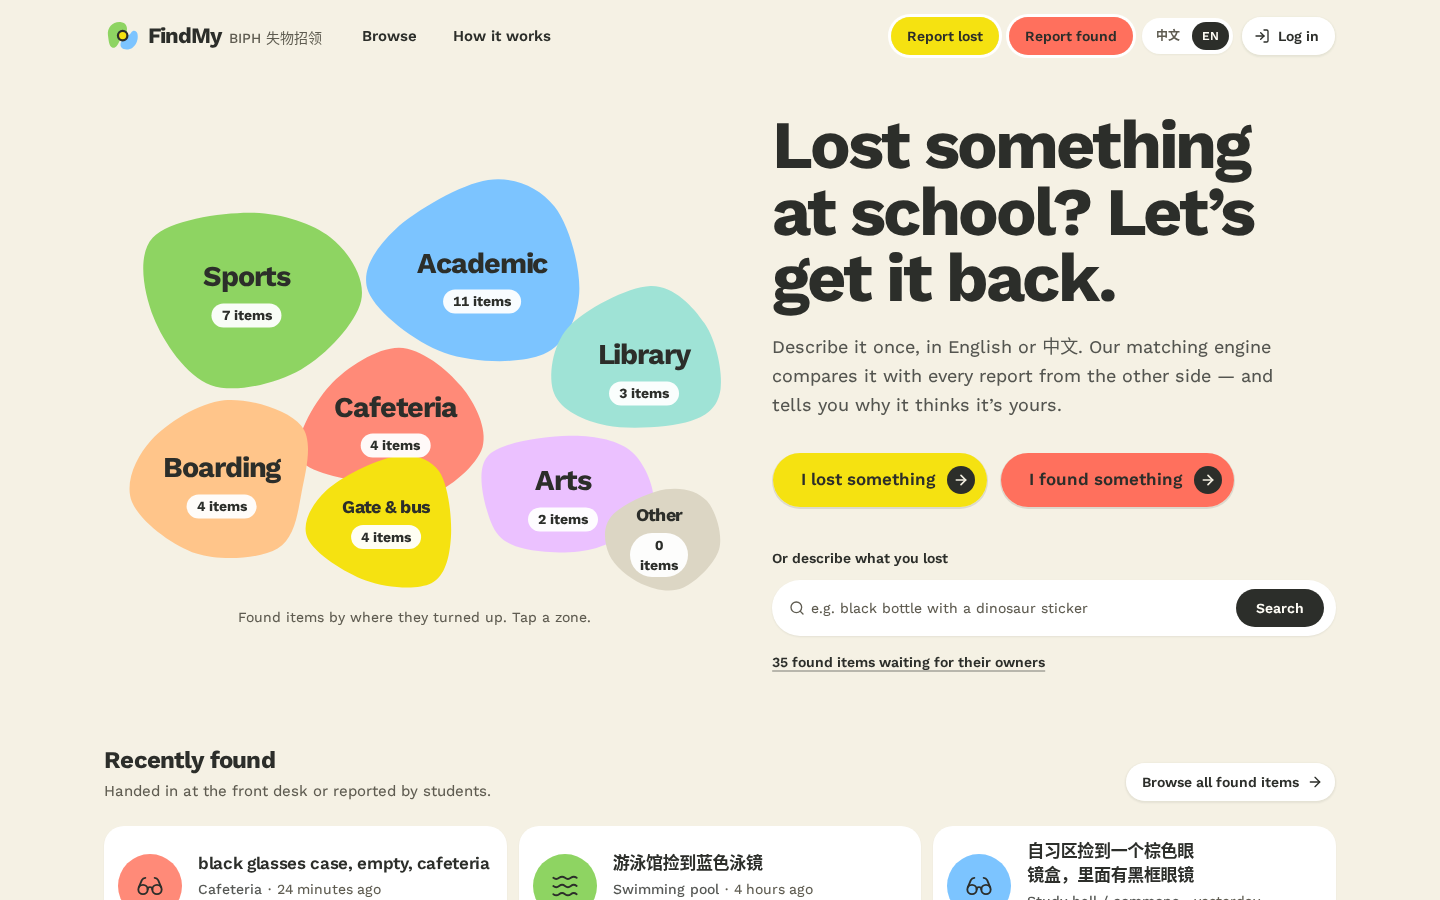
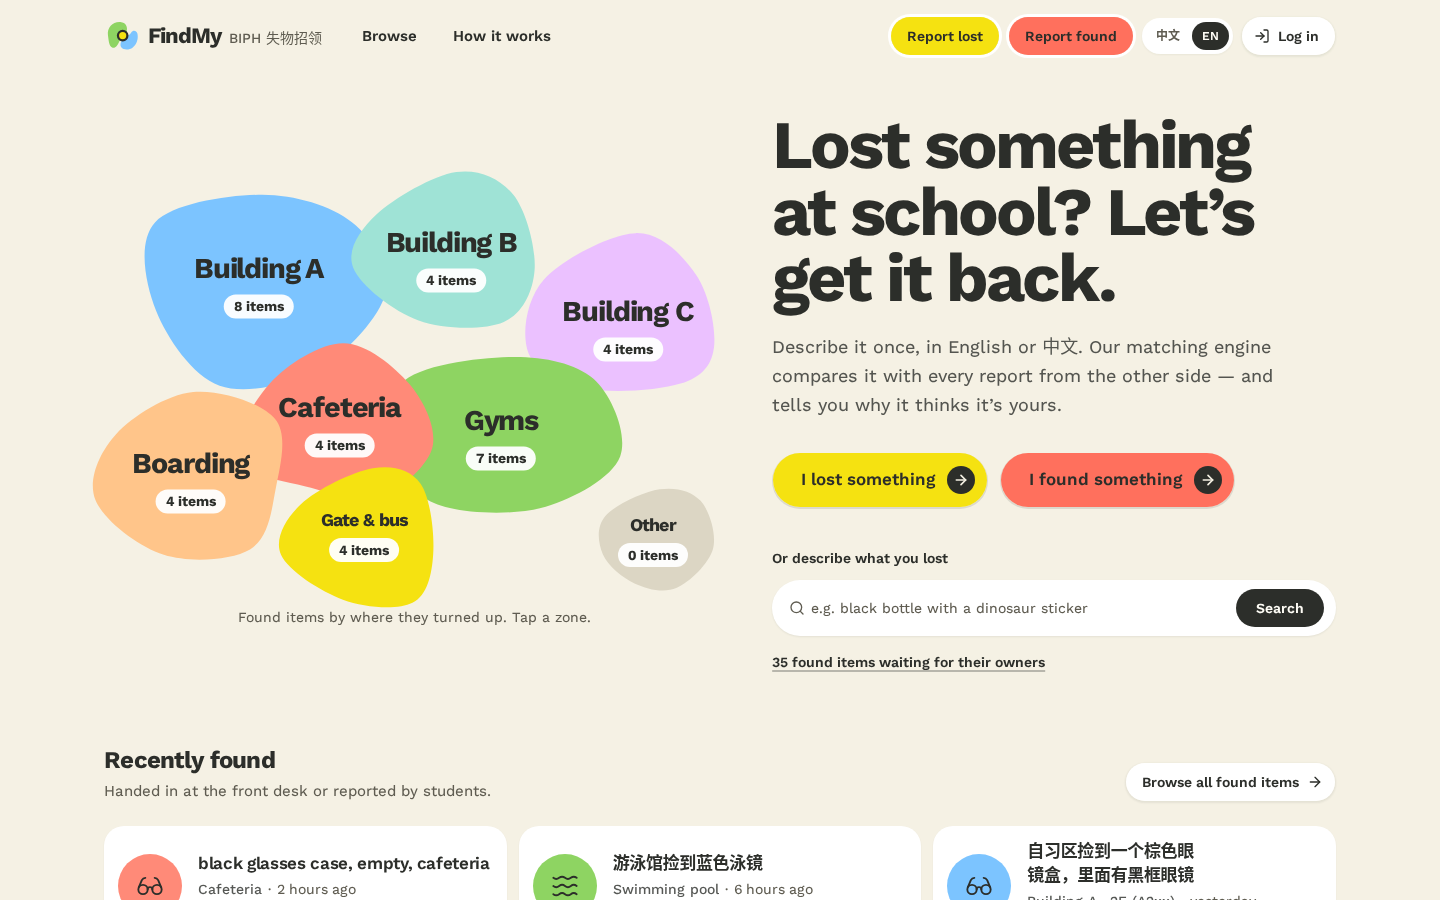
Campus places: buildings A/B/C by floor, Lower/Upper Gym
Restructure locations.yaml into buildings and floors as the club
described: Building A (1F–5F, Library, Theater, Black Box, Clinic),
Building B (1F–4F), Building C (1F–5F), Gyms & sports (Lower Gym,
Upper Gym, pool, field, courts), Cafeteria, Boarding, Gate/bus/front
desk, Other.

- Room numbers and floors in descriptions are detected as places:
  A305, B-210, C栋4楼, a3楼, "building C 4th floor"; they no longer
  count as item codes
- Old draft place ids (gym, classroom, auditorium…) map onto current
  places via a `legacy` table, so seed and synthetic eval data keep
  working; the API canonicalises them on write
- Campus map lobes, zone colours and labels follow the new zones

Claude-Session: https://claude.ai/code/session_01A63aX4exAFyPgu777g8Dwa

Changed region(s): [[0.0625, 0.1867, 0.5, 0.6844], [0.7188, 0.9956, 0.875, 1.0], [0.1875, 0.9644, 0.25, 0.9956]]

diff --git a/frontend/src/components/CampusMap.tsx b/frontend/src/components/CampusMap.tsx
@@ -11,24 +11,24 @@ import { cn } from "@/lib/utils";
 
 type Lobe = { id: string; cx: number; cy: number; r: number; seed: number; label: { x: number; y: number } };
 
-// Rough campus layout in a 1000 × 700 frame: sports fields west, academic block north-east, the gate south.
+// Schematic campus in a 1000 × 700 frame: the three teaching buildings across the top, gyms and canteen in the middle, the gate south.
 const LOBES: Lobe[] = [
-  { id: "sports", cx: 230, cy: 220, r: 150, seed: 3, label: { x: 23, y: 31 } },
-  { id: "academic", cx: 610, cy: 195, r: 150, seed: 7, label: { x: 61, y: 28 } },
-  { id: "library", cx: 870, cy: 340, r: 150, seed: 11, label: { x: 87, y: 49 } },
-  { id: "dining", cx: 470, cy: 430, r: 150, seed: 5, label: { x: 47, y: 61 } },
-  { id: "arts", cx: 740, cy: 545, r: 150, seed: 13, label: { x: 74, y: 78 } },
-  { id: "boarding", cx: 190, cy: 525, r: 150, seed: 2, label: { x: 19, y: 75 } },
-  { id: "entrance", cx: 455, cy: 585, r: 130, seed: 17, label: { x: 45.5, y: 84 } },
-  { id: "other", cx: 895, cy: 615, r: 150, seed: 19, label: { x: 89.5, y: 88 } },
+  { id: "building_a", cx: 250, cy: 205, r: 150, seed: 3, label: { x: 25, y: 29 } },
+  { id: "building_b", cx: 560, cy: 160, r: 150, seed: 7, label: { x: 56, y: 23 } },
+  { id: "building_c", cx: 845, cy: 270, r: 150, seed: 11, label: { x: 84.5, y: 39 } },
+  { id: "sports", cx: 640, cy: 450, r: 150, seed: 13, label: { x: 64, y: 64 } },
+  { id: "dining", cx: 380, cy: 430, r: 150, seed: 5, label: { x: 38, y: 61 } },
+  { id: "boarding", cx: 140, cy: 520, r: 150, seed: 2, label: { x: 14, y: 74 } },
+  { id: "entrance", cx: 420, cy: 610, r: 130, seed: 17, label: { x: 42, y: 87 } },
+  { id: "other", cx: 885, cy: 615, r: 150, seed: 19, label: { x: 88.5, y: 88 } },
 ];
 
 export const ZONE_FILL: Record<string, string> = {
+  building_a: "var(--color-zone-building-a)",
+  building_b: "var(--color-zone-building-b)",
+  building_c: "var(--color-zone-building-c)",
   sports: "var(--color-zone-sports)",
-  academic: "var(--color-zone-academic)",
-  library: "var(--color-zone-library)",
   dining: "var(--color-zone-dining)",
-  arts: "var(--color-zone-arts)",
   boarding: "var(--color-zone-boarding)",
   entrance: "var(--color-zone-entrance)",
   other: "var(--color-zone-other)",
@@ -139,7 +139,7 @@ export function CampusMap({
                 {size === "lg" && n !== undefined && (
                   <span
                     className={cn(
-                      "tabular rounded-full px-2.5 py-0.5 font-bold transition-colors duration-200",
+                      "tabular rounded-full px-2.5 py-0.5 font-bold whitespace-nowrap transition-colors duration-200",
                       size === "lg" ? "text-sm" : "text-xs",
                       on ? "bg-ink text-cream" : "bg-white/95 group-hover:bg-white",
                     )}

diff --git a/frontend/tests/e2e/flows.spec.ts b/frontend/tests/e2e/flows.spec.ts
@@ -23,7 +23,7 @@ test("anonymous visitors can browse found items and search finds the dinosaur th
   const thermos = results.getByRole("link", { name: /green dinosaur sticker/i });
   await expect(thermos).toBeVisible();
   await expect(thermos).toContainText("Water bottle");
-  await expect(thermos).toContainText("Gymnasium");
+  await expect(thermos).toContainText("Lower Gym");
 });
 
 test("a student reports a lost thermos and gets a strong match with reasons", async ({ page }) => {
@@ -41,7 +41,7 @@ test("a student reports a lost thermos and gets a strong match with reasons", as
   await expect(page.getByRole("button", { name: "Black", pressed: true })).toBeVisible();
 
   await page.getByLabel("Area", { exact: true }).selectOption("sports");
-  await page.getByRole("group", { name: "Places in Sports facilities" }).getByRole("button", { name: "Gymnasium" }).click();
+  await page.getByRole("group", { name: "Places in Gyms & sports" }).getByRole("button", { name: "Lower Gym" }).click();
   await page.getByRole("button", { name: "A few days ago" }).click();
   await page.getByRole("button", { name: "Post lost report" }).click();
 
@@ -53,7 +53,7 @@ test("a student reports a lost thermos and gets a strong match with reasons", as
   await expect(best).toContainText(/green dinosaur sticker/);
   const reasons = best.getByRole("list", { name: "Why we think so" });
   await expect(reasons).toContainText("Shared details: sticker, dinosaur");
-  await expect(reasons).toContainText("Same place: Gymnasium");
+  await expect(reasons).toContainText("Same place: Lower Gym");
 });
 
 test("claim → front desk approves → item handed back and marked returned", async ({ page }) => {

diff --git a/frontend/src/components/Layout.tsx b/frontend/src/components/Layout.tsx
@@ -30,7 +30,7 @@ export function LogoMark({ className }: { className?: string }) {
   return (
     <svg aria-hidden viewBox="0 0 32 32" className={cn("size-8 shrink-0", className)}>
       <path d="M3.5 15.2C2.6 8.4 8 3 14.6 3.6c5 .5 6.6 4.6 5.6 8.4-1 3.9-4.9 5-6.6 8.8-1.6 3.6-3.6 6.6-6.4 5.4C4.5 25 4.2 20.6 3.5 15.2Z" fill="var(--color-zone-sports)" />
-      <path d="M17.4 27.6c-3.6-1.2-3.4-5.6-.8-8.4 2.4-2.6 5.6-3.2 7.6-6.4 1.4-2.2 4.6-2 5.4.8 1.2 4.2-.2 9.6-4 12.6-2.4 1.8-5.4 2.2-8.2 1.4Z" fill="var(--color-zone-academic)" />
+      <path d="M17.4 27.6c-3.6-1.2-3.4-5.6-.8-8.4 2.4-2.6 5.6-3.2 7.6-6.4 1.4-2.2 4.6-2 5.4.8 1.2 4.2-.2 9.6-4 12.6-2.4 1.8-5.4 2.2-8.2 1.4Z" fill="var(--color-zone-building-a)" />
       <circle cx="16.6" cy="15.6" r="4.2" fill="var(--sun)" stroke="var(--ink)" strokeWidth="2" />
     </svg>
   );

diff --git a/frontend/src/i18n/zh.ts b/frontend/src/i18n/zh.ts
@@ -118,7 +118,7 @@ const zh: Translation = {
     title: "东西都在哪儿被捡到",
     hint: "点一个区域，看看那里捡到了什么。",
     allZones: "整个校园",
-    short: { sports: "运动区", academic: "教学楼", library: "图书馆", dining: "食堂", arts: "演艺区", boarding: "宿舍区", entrance: "校门", other: "其他" },
+    short: { building_a: "A 栋", building_b: "B 栋", building_c: "C 栋", sports: "体育馆", dining: "食堂", boarding: "宿舍区", entrance: "校门", other: "其他" },
   },
   home: {
     title: "在学校丢了东西？我们帮你找回来。",

diff --git a/frontend/src/i18n/en.ts b/frontend/src/i18n/en.ts
@@ -113,7 +113,7 @@ const en = {
     title: "Where things turn up",
     hint: "Tap a zone to see what was found there.",
     allZones: "All of campus",
-    short: { sports: "Sports", academic: "Academic", library: "Library", dining: "Cafeteria", arts: "Arts", boarding: "Boarding", entrance: "Gate & bus", other: "Other" },
+    short: { building_a: "Building A", building_b: "Building B", building_c: "Building C", sports: "Gyms", dining: "Cafeteria", boarding: "Boarding", entrance: "Gate & bus", other: "Other" },
   },
   home: {
     title: "Lost something at school? Let’s get it back.",

diff --git a/frontend/tests/e2e/screenshots.spec.ts b/frontend/tests/e2e/screenshots.spec.ts
@@ -77,7 +77,7 @@ for (const vp of VIEWPORTS) {
       await page.goto("/admin/quick-add");
       await page.getByRole("button", { name: "Water bottle" }).click();
       await page.getByRole("button", { name: "Black" }).click();
-      await page.getByLabel("Where was it found?").selectOption("gym");
+      await page.getByLabel("Where was it found?").selectOption("lower_gym");
       await expect(page.getByText("Black water bottle")).toBeVisible();
       await shot("quick-add", true);
     });

diff --git a/frontend/src/index.css b/frontend/src/index.css
@@ -92,10 +92,10 @@
   --color-sun: var(--sun);
   --color-coral: var(--coral);
   --color-zone-sports: #8ed462;
-  --color-zone-academic: #7cc4ff;
-  --color-zone-library: #9fe3d6;
+  --color-zone-building-a: #7cc4ff;
+  --color-zone-building-b: #9fe3d6;
   --color-zone-dining: #ff8a78;
-  --color-zone-arts: #ebc1ff;
+  --color-zone-building-c: #ebc1ff;
   --color-zone-boarding: #ffc58a;
   --color-zone-entrance: #f5e211;
   --color-zone-other: #dcd6c4;

diff --git a/frontend/src/pages/HomePage.tsx b/frontend/src/pages/HomePage.tsx
@@ -75,7 +75,7 @@ export default function HomePage() {
   const returnedCount = returned.data?.total;
   const steps = [
     [t("home.step1Title"), t("home.step1"), "var(--color-zone-sports)"],
-    [t("home.step2Title"), t("home.step2"), "var(--color-zone-academic)"],
+    [t("home.step2Title"), t("home.step2"), "var(--color-zone-building-a)"],
     [t("home.step3Title"), t("home.step3"), "var(--color-zone-entrance)"],
   ] as const;
 

diff --git a/matcher/extract.py b/matcher/extract.py
@@ -90,6 +90,27 @@ MODEL_SUFFIX_STOP = {"ml", "l", "gb", "tb", "mb", "cm", "mm", "kg", "g", "mah", 
                      "pm", "am", "th", "st", "nd", "rd", "oz"}
 
 
+# Room numbers and floors → "<building>_<n>f" place ids: A305, b-210, c栋4楼, a3楼, B楼2层, building C 4th floor.
+_ROOM_PATTERNS = (
+    re.compile(r"(?<![a-z0-9])(?P<b>[abc])\s?-?(?P<f>[1-9])\d{2}(?![0-9])"),
+    re.compile(r"(?<![a-z0-9])(?P<b>[abc])\s*(?:栋|座|幢|楼)?\s*(?P<f>[1-9])\s*(?:楼|层)"),
+    re.compile(r"\bbuilding\s*(?P<b>[abc])\W*(?:floor\s*(?P<f>[1-9])|(?P<f2>[1-9])(?:st|nd|rd|th)?\s*floor)\b"),
+    re.compile(r"\b(?P<f>[1-9])(?:st|nd|rd|th)?\s*floor\s*(?:of\s*)?(?:building\s*)?(?P<b>[abc])\b"),
+)
+
+
+def _rooms(norm: str, vocab: Vocab) -> list[tuple[str, int, int]]:
+    found: list[tuple[str, int, int]] = []
+    for pattern in _ROOM_PATTERNS:
+        for m in pattern.finditer(norm):
+            groups = m.groupdict()
+            floor = groups.get("f") or groups.get("f2")
+            place = f"{groups['b']}_{floor}f"
+            if place in vocab.places:
+                found.append((place, m.start(), m.end()))
+    return found
+
+
 def _codes(raw: str, norm: str) -> list[str]:
     nfkc = unicodedata.normalize("NFKC", raw or "")
     found: list[str] = []
@@ -139,6 +160,16 @@ def extract(raw: str, vocab: Vocab | None = None) -> Extraction:
     norm = normalize(raw)
     occupied = bytearray(len(norm))
     spans: list[Span] = []
+
+    # Room numbers first: "A305" is a place, not a model number or a code.
+    rooms = _rooms(norm, vocab)
+    for place, start, end in rooms:
+        if not any(occupied[start:end]):
+            occupied[start:end] = b"\x01" * (end - start)
+            spans.append(Span("location", place, start, end, norm[start:end]))
+    code_norm = norm
+    for _, start, end in rooms:
+        code_norm = code_norm[:start] + " " * (end - start) + code_norm[end:]
 
     for phrase in vocab.span_phrases:
         if phrase.text not in norm:
@@ -200,7 +231,7 @@ def extract(raw: str, vocab: Vocab | None = None) -> Extraction:
     ex.marks = unique("mark", spans)
     ex.motifs = unique("motif", spans)
     ex.brands = unique("brand", sorted(brand_spans, key=lambda s: s.start))
-    ex.codes = _codes(raw, norm)
+    ex.codes = _codes(raw, code_norm)
 
     removed = [(s.start, s.end) for s in spans if s.kind in {"category", "color", "location", "stop"}]
     removed += [(s.start, s.end) for s in brand_spans]

diff --git a/matcher/vocab.py b/matcher/vocab.py
@@ -52,6 +52,7 @@ class Vocab:
     motifs: dict[str, dict] = field(default_factory=dict)
     places: dict[str, Place] = field(default_factory=dict)
     zones: dict[str, dict] = field(default_factory=dict)
+    legacy_places: dict[str, str] = field(default_factory=dict)  # old draft id -> current place id
     stopwords_en: frozenset[str] = frozenset()
     stopwords_zh: tuple[str, ...] = ()
     span_phrases: list[Phrase] = field(default_factory=list)  # competing kinds, longest first
@@ -62,8 +63,12 @@ class Vocab:
             return 1.0
         return self.color_sim.get((a, b), self.color_sim.get((b, a), 0.0))
 
+    def canon_place(self, place_id: str) -> str:
+        """Current id for a place, mapping ids from the first campus draft (seed / eval data) onto today's."""
+        return self.legacy_places.get(place_id, place_id)
+
     def zone_of(self, place_id: str) -> str | None:
-        place = self.places.get(place_id)
+        place = self.places.get(self.canon_place(place_id))
         return place.zone if place else None
 
     def parent_of(self, category_id: str) -> str | None:
@@ -138,6 +143,7 @@ def load_vocab(data_dir: str | None = None) -> Vocab:
         for place in zone["places"]:
             vocab.places[place["id"]] = Place(place["id"], zone["id"], place["label"])
             span += _phrases(place.get("aliases") or [], "location", place["id"])
+    vocab.legacy_places = {old: new for old, new in (loc.get("legacy") or {}).items() if new in vocab.places}
 
     stop = tax.get("stopwords", {})
     vocab.stopwords_en = frozenset(normalize(w) for w in stop.get("en") or [])

diff --git a/matcher/tests/test_extract.py b/matcher/tests/test_extract.py
@@ -6,12 +6,16 @@ from matcher.extract import extract
 @pytest.mark.parametrize(
     "text, category, colors, places",
     [
-        ("黑色保温杯 贴了恐龙贴纸，在体育馆丢的", "water_bottle", ["black"], ["gym"]),
-        ("Found a black Thermos bottle near the gym", "water_bottle", ["black"], ["gym"]),
-        ("在gym丢了black水杯", "water_bottle", ["black"], ["gym"]),
+        ("黑色保温杯 贴了恐龙贴纸，在体育馆丢的", "water_bottle", ["black"], ["lower_gym"]),
+        ("Found a black Thermos bottle near the gym", "water_bottle", ["black"], ["lower_gym"]),
+        ("在gym丢了black水杯", "water_bottle", ["black"], ["lower_gym"]),
         ("藍色耳機 在圖書館", "earbuds", ["blue"], ["library"]),
         ("purple pencil case with stripes, cafeteria", "pencil_case", ["purple"], ["cafeteria"]),
-        ("navy blue hoodie left in the changing room", "jacket", ["navy"], ["locker_rooms"]),
+        ("navy blue hoodie left in the changing room", "jacket", ["navy"], ["lower_gym"]),
+        ("在A305丢了黑色水杯", "water_bottle", ["black"], ["a_3f"]),
+        ("TI-84 calculator left in B210", "calculator", [], ["b_2f"]),
+        ("white earbuds, C栋4楼", "earbuds", ["white"], ["c_4f"]),
+        ("upper gym, red jacket", "jacket", ["red"], ["upper_gym"]),
     ],
 )
 def test_bilingual_attributes(text, category, colors, places):

diff --git a/backend/app/seed.py b/backend/app/seed.py
@@ -15,6 +15,8 @@ from datetime import datetime, timedelta, timezone
 
 from sqlalchemy import select
 
+from matcher import get_matcher
+
 from .auth import LOCAL_NAMESPACE
 from .config import get_settings
 from .db import get_engine, get_sessionmaker, init_db
@@ -139,7 +141,7 @@ def seed(reset: bool = False) -> int:
             start = min(_when(days, hour), now - timedelta(minutes=5))
             item = Item(
                 kind=kind, reporter_id=_profile(db, who).id, description=text, category=cat, colors=colors,
-                locations=places, time_from=start,
+                locations=[get_matcher().vocab.canon_place(p) for p in places], time_from=start,
                 time_to=start + timedelta(hours=extra.get("window_h", 0)) if kind == "lost" else None,
                 marks_text=extra.get("marks_text", ""), private_detail=extra.get("private_detail", ""),
                 brand=extra.get("brand"), holding="front_desk" if kind == "found" else None,
